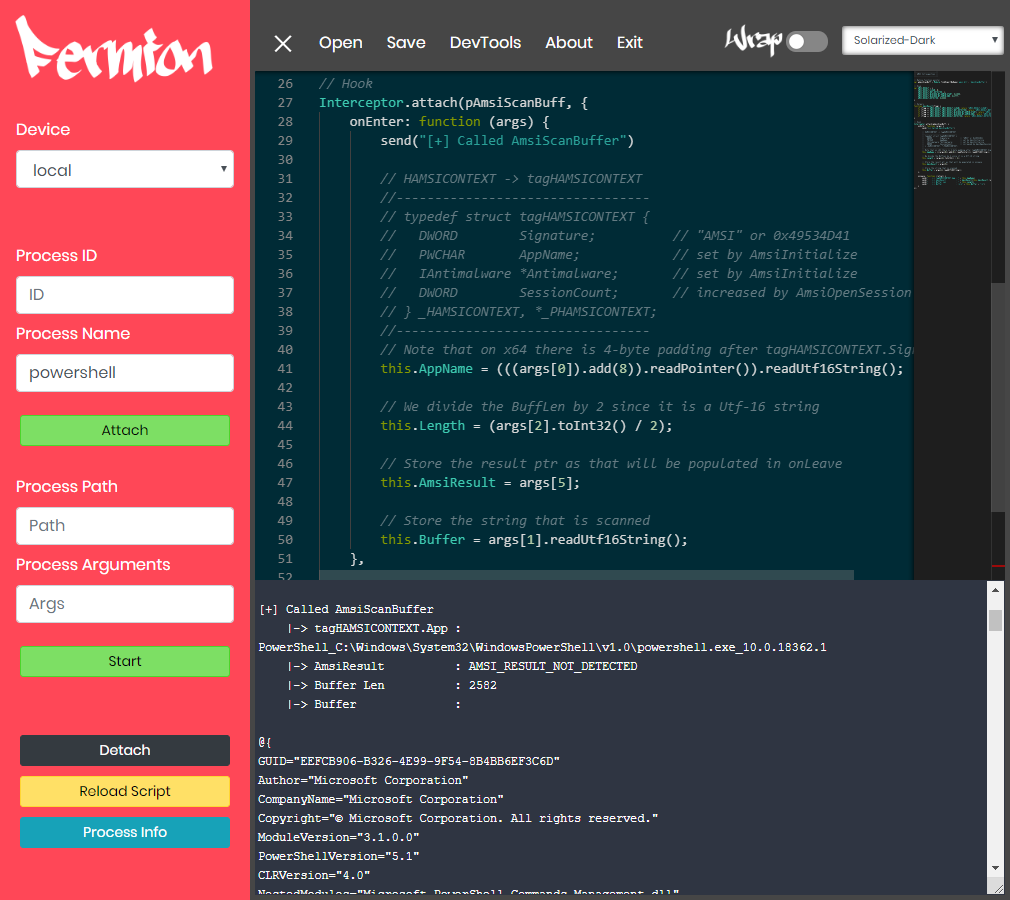
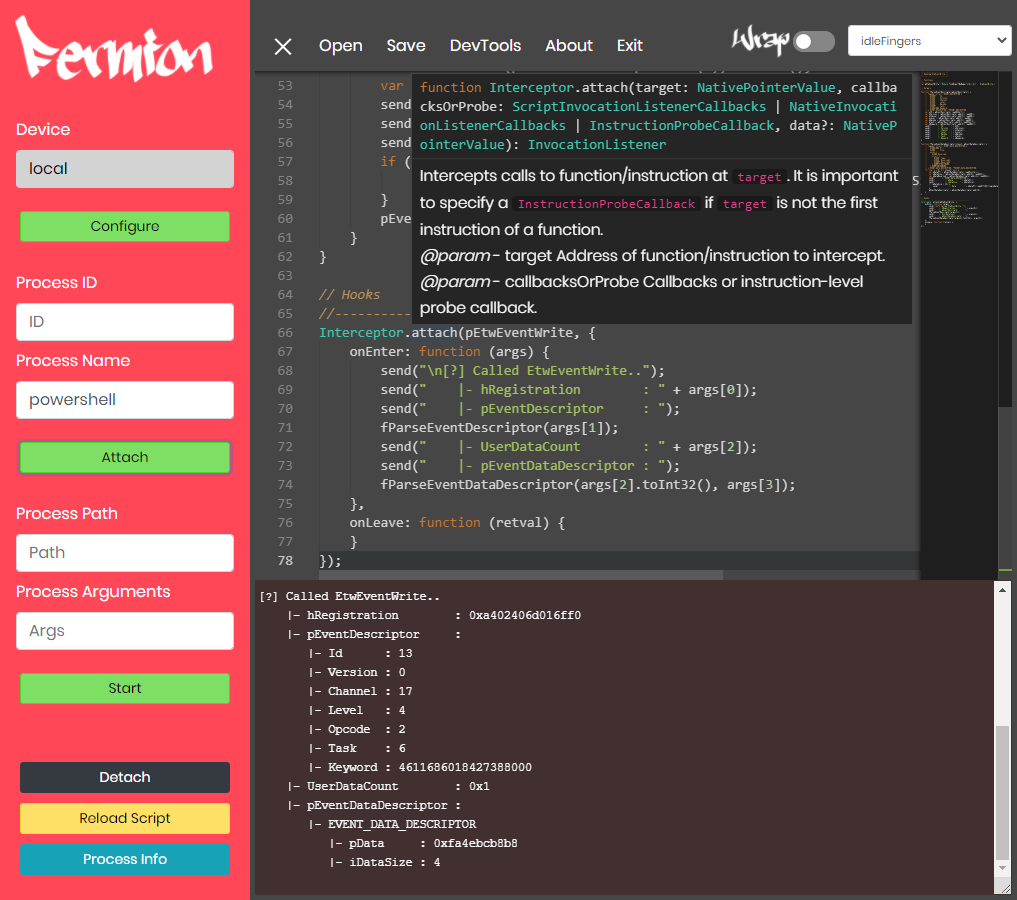
+Fermion-v15

diff --git a/Fermion/src/device.html b/Fermion/src/device.html
@@ -1,0 +1,115 @@
+<html>
+
+<head>
+	<style>
+		body {
+			background-color: #ff4757 !important;
+			-webkit-app-region:drag;
+		}
+	</style>
+	<link rel="stylesheet" href="../assets/css/bootstrap.css">
+	<link rel="stylesheet" href="../assets/css/frida.css">
+	<script defer src="../assets/js/solid.js"></script>
+	<script defer src="../assets/js/fontawesome.js"></script>
+</head>
+
+<body>
+	<div class="container-fluid">
+		<div class="row"
+			style="text-align:right;display:block;padding-right:5px;padding-top:5px">
+			<a id="CloseDevice" href="#">
+				<img src="../assets/img/x.png" height="10%" width="7%" style="-webkit-app-region: no-drag;">
+			</a>
+			<img src="../assets/img/device.png" height="18%" width="35%" style="-webkit-app-region:drag;float: left;display:block;padding-left:5px;">
+		</div>
+		<div class="form-check">
+			<br /><br />
+			<input class="form-check-input" type="radio" name="selectRadios" id="selectRadios1" value="option1" style="-webkit-app-region: no-drag;" checked>
+			<label class="form-check-label" for="flexCheckChecked">Auto-Detect (Local / USB / Mobile)</label>
+			<select type="deviceName" class="form-control" id="deviceName" style="-webkit-app-region: no-drag;">
+				<option>local</option>
+			</select><br />
+		  </div>
+		  <div class="form-check">
+			<input class="form-check-input" type="radio" name="selectRadios" id="selectRadios2" value="option2" style="-webkit-app-region: no-drag;">
+			<label class="form-check-label">Remote Socket</label>
+			<div class="input-group mb-3" style="-webkit-app-region: no-drag;">
+				<input type="text" class="form-control" placeholder="IP" aria-label="IP" style="width: 45%;" id="inputIP">
+				<span class="input-group-text" style="-webkit-app-region: drag;">:</span>
+				<input type="text" class="form-control" placeholder="Port" aria-label="Port" id="inputPort">
+			  </div>
+		  </div>
+
+		  <button type="button" id="FridaUpdateDevice" class="btn btn-goon btn-sm btn-block btn-space" style="-webkit-app-region: no-drag; margin-top:30px;">Ok</button>
+	</div>
+
+	<script type="text/javascript">
+		const frida = require('frida');
+		// Overwrite default node.js prop to get Jquery working
+		window.$ = window.jQuery = require('jquery');
+
+		// Update dropdown
+		async function updateDeviceList() {
+			// Get dropdown array
+			var dn = document.getElementById("deviceName");
+			var currentDevice = dn.options[deviceName.selectedIndex].value;
+			var dnArr = Array.from(dn.options).map(elem => elem.text);
+
+			// Get device array
+			var dm = frida.getDeviceManager();
+			var dev = await dm.enumerateDevices();
+			var devArr = dev.map(elem => elem.id);
+
+			// Does the current device still exist?
+			if (!devArr.includes(currentDevice)) {
+				// Local is always a valid target
+				dn.selectedIndex = 0;
+				deviceId = 'local';
+			}
+
+			// Remove stale entries from the dropdown
+			dnArr.forEach(function(elem) {
+				if (!devArr.includes(elem)) {
+					$(`#deviceName option:contains("${elem}")`).remove()
+				}
+			})
+
+			// Add new entries to the dropdown
+			devArr.forEach(function(elem) {
+				if (!dnArr.includes(elem) && elem != "tcp" && elem != "socket") {
+					$("#deviceName").append(new Option(elem))
+				}
+			})
+		}
+
+		updateDeviceList();
+		setInterval(function(){
+			updateDeviceList();
+		}, 5000);
+
+		// Update device and close dialog
+		document.getElementById("FridaUpdateDevice").onclick = function () {
+			// New device string
+			var newDevice = null;
+
+			// Do action based on radio selector
+			if (document.getElementById("selectRadios1").checked) {
+				newDevice = document.getElementById("deviceName").value;
+			} else {
+				newDevice = "socket@" + document.getElementById("inputIP").value + ":" + document.getElementById("inputPort").value;
+			}
+
+			const ipc = require('electron').ipcRenderer;
+			ipc.send('device-selector', newDevice);
+
+			window.close();
+		}
+
+		// Close dialog, make no changes to the device
+		document.getElementById("CloseDevice").onclick = function () {
+			window.close();
+		}
+	</script>
+</body>
+
+</html>

diff --git a/Fermion/src/render.js b/Fermion/src/render.js
@@ -123,6 +123,17 @@ async function getProcList() {
 function appendFridaLog(data) {
 	var FridaOut = document.getElementById('FridaOut');
 	FridaOut.value += (data + "\n");
+
+	// DIY garbage collection
+	// |-> If the textarea grows too large it locks up the app
+	var aFridaOut = FridaOut.value.split("\n");
+	var iMaxLen = 5000; // max line count in textarea
+	if (aFridaOut.length > iMaxLen) {
+		var iRemCount = aFridaOut.length - iMaxLen;
+		aFridaOut.splice(0, iRemCount);
+		FridaOut.value = aFridaOut.join("\n");
+	}
+
 	FridaOut.scrollTop = FridaOut.scrollHeight;
 }
 
@@ -255,42 +266,46 @@ document.getElementById("FridaProc").onclick = function () {
 	ProcWin.on('close', function () { ProcWin = null })
 }
 
-async function updateDeviceList() {
-	// Get dropdown array
-	var dn = document.getElementById("deviceName");
-	var currentDevice = dn.options[deviceName.selectedIndex].value;
-	var dnArr = Array.from(dn.options).map(elem => elem.text);
+// Handle device selector
+//////////////////////////////////////////////////
+document.getElementById("setDevice").onclick = function () {
+	const modalPath = path.join('file://', __dirname, 'device.html');
+	let ProcWin = new BrowserWindow({
+		contextIsolation: false,
+		width: 350,
+		height: 310,
+		frame: false,
+		resizable: false,
+		backgroundColor: '#464646',
+		webPreferences: { nodeIntegration: true, enableRemoteModule: true }
+	})
+	ProcWin.loadURL(modalPath);
+	ProcWin.once('ready-to-show', () => {
+		ProcWin.show();
+		ProcWin.focus();
+	});
+	ProcWin.on('close', function () { ProcWin = null })
+}
 
-	// Get device array
-	var dm = frida.getDeviceManager();
-	var dev = await dm.enumerateDevices();
-	var devArr = dev.map(elem => elem.id);
-
-	// Does the current device still exist?
-	if (!devArr.includes(currentDevice)) {
-		// Local is always a valid target
-		dn.selectedIndex = 0;
-		deviceId = 'local';
+const ipc = require('electron').ipcRenderer;
+ipc.on('device-selector', async (event, message) => {
+	// Do we need to unregister a current remote socket?
+	if (document.getElementById("deviceName").value.startsWith("socket@")) {
+		var dm = await frida.getDeviceManager();
+		dm.removeRemoteDevice(document.getElementById("deviceName").value.split('@')[1]);
 	}
 
-	// Remove stale entries from the dropdown
-	dnArr.forEach(function(elem) {
-		if (!devArr.includes(elem)) {
-			$(`#deviceName option:contains("${elem}")`).remove()
-		}
-	})
-
-	// Add new entries to the dropdown
-	devArr.forEach(function(elem) {
-		if (!dnArr.includes(elem) && elem != "tcp" && elem != "socket") {
-			$("#deviceName").append(new Option(elem))
-		}
-	})
-}
-
-document.getElementById("deviceName").onchange = function () {
-	deviceId = this.value;
-}
+	// Do we need to register a new remote socket?
+	if (message.startsWith("socket@")) {
+		var dm = await frida.getDeviceManager();
+		var devID = await dm.addRemoteDevice(message.split('@')[1]);
+		document.getElementById("deviceName").value = devID.id;
+		deviceId = devID.id;
+	} else {
+		document.getElementById("deviceName").value = message;
+		deviceId = message;
+	}
+});
 
 // Menu UI hooks
 //////////////////////////////////////////////////
@@ -494,7 +509,7 @@ var LocalLoadLang = function (url, method) {
 	});
 };
 
-// Trap Ctrl/Command-s / Ctrl/Command-o
+// Trap Ctrl/Command-s / Ctrl/Command-o / Ctrl/Command-t
 //////////////////////////////////////////////////
 document.addEventListener("keydown", function (e) {
 	if ((window.navigator.platform.match("Mac") ? e.metaKey : e.ctrlKey) && e.keyCode == 83) {
@@ -539,5 +554,13 @@ document.addEventListener("keydown", function (e) {
 		e.preventDefault();
 		// Trigger the save function
 		document.getElementById("FermionOpen").click();
+	}
+}, false);
+
+document.addEventListener("keydown", function (e) {
+	if ((window.navigator.platform.match("Mac") ? e.metaKey : e.ctrlKey) && e.keyCode == 84) {
+		e.preventDefault();
+		// Trigger script reload
+		document.getElementById("FridaReload").click();
 	}
 }, false);

diff --git a/Fermion/src/frida.html b/Fermion/src/frida.html
@@ -29,10 +29,13 @@
 			<ul class="list-unstyled components">
 					<div class="form-group mx-sm-3 mb-2">
 						<label for="deviceName">Device</label>
-						<select type="deviceName" class="form-control" id="deviceName">
-							<option>local</option>
-						</select>
-					</div><br><br>
+						<input type="deviceName" class="form-control" id="deviceName" value="local" style="background-color:lightgray; color:black;" disabled>
+					</div>
+					<ul class="list-unstyled CTAs">
+						<li>
+						<button type="button" id="setDevice" class="btn btn-goon btn-sm btn-block btn-space">Configure</button>
+						</li>
+					</ul><br>
 					<div class="form-group mx-sm-3 mb-2">
 						<label for="procID">Process ID</label>
 						<input type="procID" class="form-control" id="procID" placeholder="ID">
@@ -211,7 +214,7 @@
 			var editor = monaco.editor.create(document.getElementById('container'), {
 				value: [
 					'//-------------------------------------------//',
-					'//              Fermion v1.4                 //',
+					'//              Fermion v1.5                 //',
 					'//                                    ~b33f  //',
 					'//-------------------------------------------//',
 					'',
@@ -224,9 +227,9 @@
 					'// + I am trapping Ctrl-s / Ctrl-o in JS so you can save',
 					'//   and open files without clicking on the menu',
 					'//',
-					'// + The full Frida API is integrated in the editor',
-					'//   |-> monaco.languages.typescript.typescriptDefaults.addExtraLib(....)',
-					'//   |-> https://www.npmjs.com/package/@types/frida-gum',
+					'// + I am trapping Ctrl-t in JS so you can reload the',
+					'//   current script in the attached target without',
+					'//   (un-collapsing &) clicking the sidebar',
 					'',
 					'// ~~ Frida ~~ //',
 					'',
@@ -248,14 +251,6 @@
 
 			// Store the editor reff as a global var
 			MonacoCodeEditor = editor;
-
-			// Update device list
-			updateDeviceList();
-
-			// Configure interval to update device list
-			setInterval(function(){
-				updateDeviceList();
-			}, 5000);
 		});
 	})();
 
@@ -263,6 +258,10 @@
 </script>
 
 <script type="text/javascript">
+
+	// Print release firda version to textarea
+	appendFridaLog("[+] Fermion v1.5 -> Frida v14.2.13");
+
 	$(document).ready(function () {
 		$('#sidebarCollapse').on('click', function () {
 			$('#sidebar').toggleClass('active');

diff --git a/Fermion/src/proc.html b/Fermion/src/proc.html
@@ -87,8 +87,14 @@
 		deviceId = new URL(url).searchParams.get('deviceId');
 
 		// Retrieve device list
-		async function getDeviceList() {
+		async function getDeviceList(devInst) {
 			var dm = await frida.getDeviceManager();
+			// If the device is a remote socket we need to add it
+			// manually
+			if (devInst.startsWith("socket@")) {
+				var sRemoteSocket = devInst.split('@')[1];
+				dm.addRemoteDevice(sRemoteSocket);
+			}
 			var dev = await dm.enumerateDevices();
 			return dev;
 		}
@@ -106,7 +112,7 @@
 			// Make sure the device list has updated
 			if (atob(deviceId) != "local") {
 				for (i = 0; i < 3; i++) {
-					var dev = await getDeviceList();
+					var dev = await getDeviceList(atob(deviceId));
 					if (dev.length > 2) {
 						break;
 					}

diff --git a/Examples/malloc.js b/Examples/malloc.js
@@ -1,0 +1,22 @@
+//--------//
+// Malloc //
+//--------//
+
+var pMalloc = Module.findExportByName(null, "malloc");
+
+Interceptor.attach(pMalloc, {
+    onEnter: function (args) {
+        send("\n[+] Called malloc");
+        send("    |_ Len     : " + args[0]);
+        this.mallocLen = args[0];
+    },
+
+    onLeave: function (retval) {
+        if (retval.toInt32() != 0) {
+            send("    |_ Success : true");
+            send("    |_ Dump    : \n" + hexdump(retval, {length:parseInt(this.mallocLen)}));
+        } else {
+            send("    |_ Success : false");
+        }
+    }
+});

diff --git a/Fermion/core.js b/Fermion/core.js
@@ -56,5 +56,6 @@ app.on('activate', () => {
   }
 })
 
-// In this file you can include the rest of your app's specific main process
-// code. You can also put them in separate files and require them here.
+// Add listener for device selector
+const ipc = require('electron').ipcMain;
+ipc.on('device-selector', (event, message) => bWin.webContents.send('device-selector', message));

diff --git a/Fermion/assets/css/frida.css b/Fermion/assets/css/frida.css
@@ -438,7 +438,7 @@ textarea#FridaOut {
     font-family: monospace;
     font-size: 0.9em;
     line-height: 1.7em;
-    background-color: #2f3542;
+    background-color: #422f2f;
 }
 
 .btn-level {

diff --git a/README.md b/README.md
@@ -81,7 +81,7 @@ Fermion has auto-complete, linting and Frida API symbol definitions.
 
 ![Help](Images/Fermion-2.png)
 
-Fermion can connect to a Frida server to debug remote applications using the device dropdown.
+Fermion can connect to a Frida server to debug remote applications using the device context menu. In many cases such as with `USB` debugging or when attaching to mobile applications through emulators like `genymotion` Fermion will automatically pick up the server as available. However, it is also possible to specify a remote server using an `IP` and `Port` combination.
 
 ![Server](Images/Fermion-3.png)
 
@@ -97,7 +97,8 @@ If you integrate Fermion into your work-flow and find it useful I encourage you 
 
 ### Roadmap
 
-* Implement a more complete device manager interface.
+* ~~Implement a more complete device manager interface.~~
+* UI re-design.
 
 ### Special thanks
 
